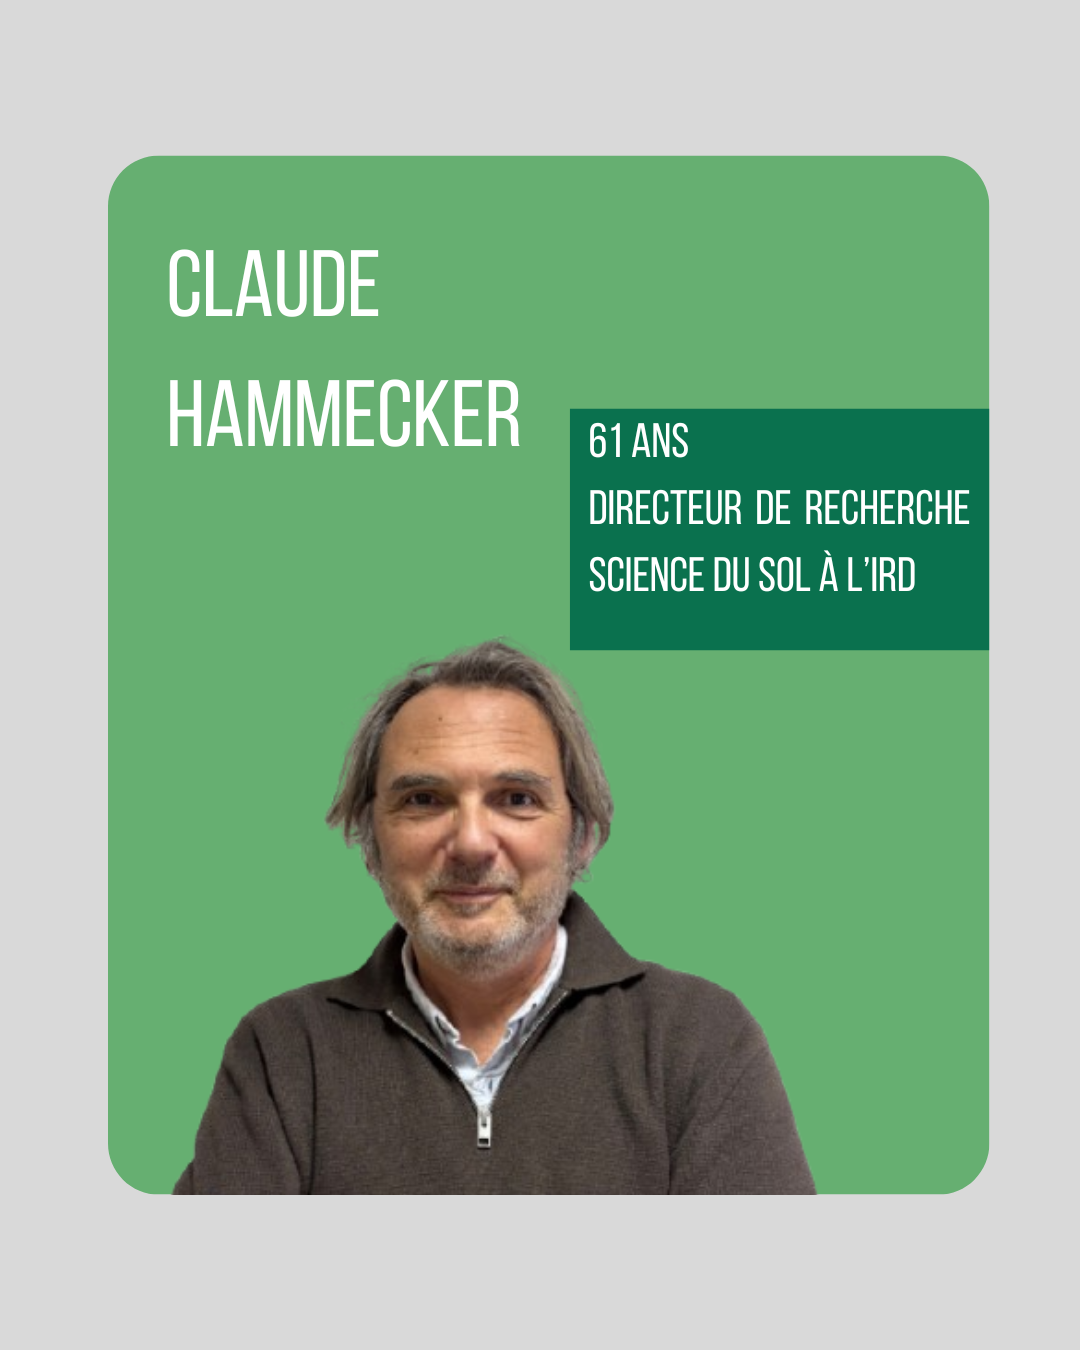
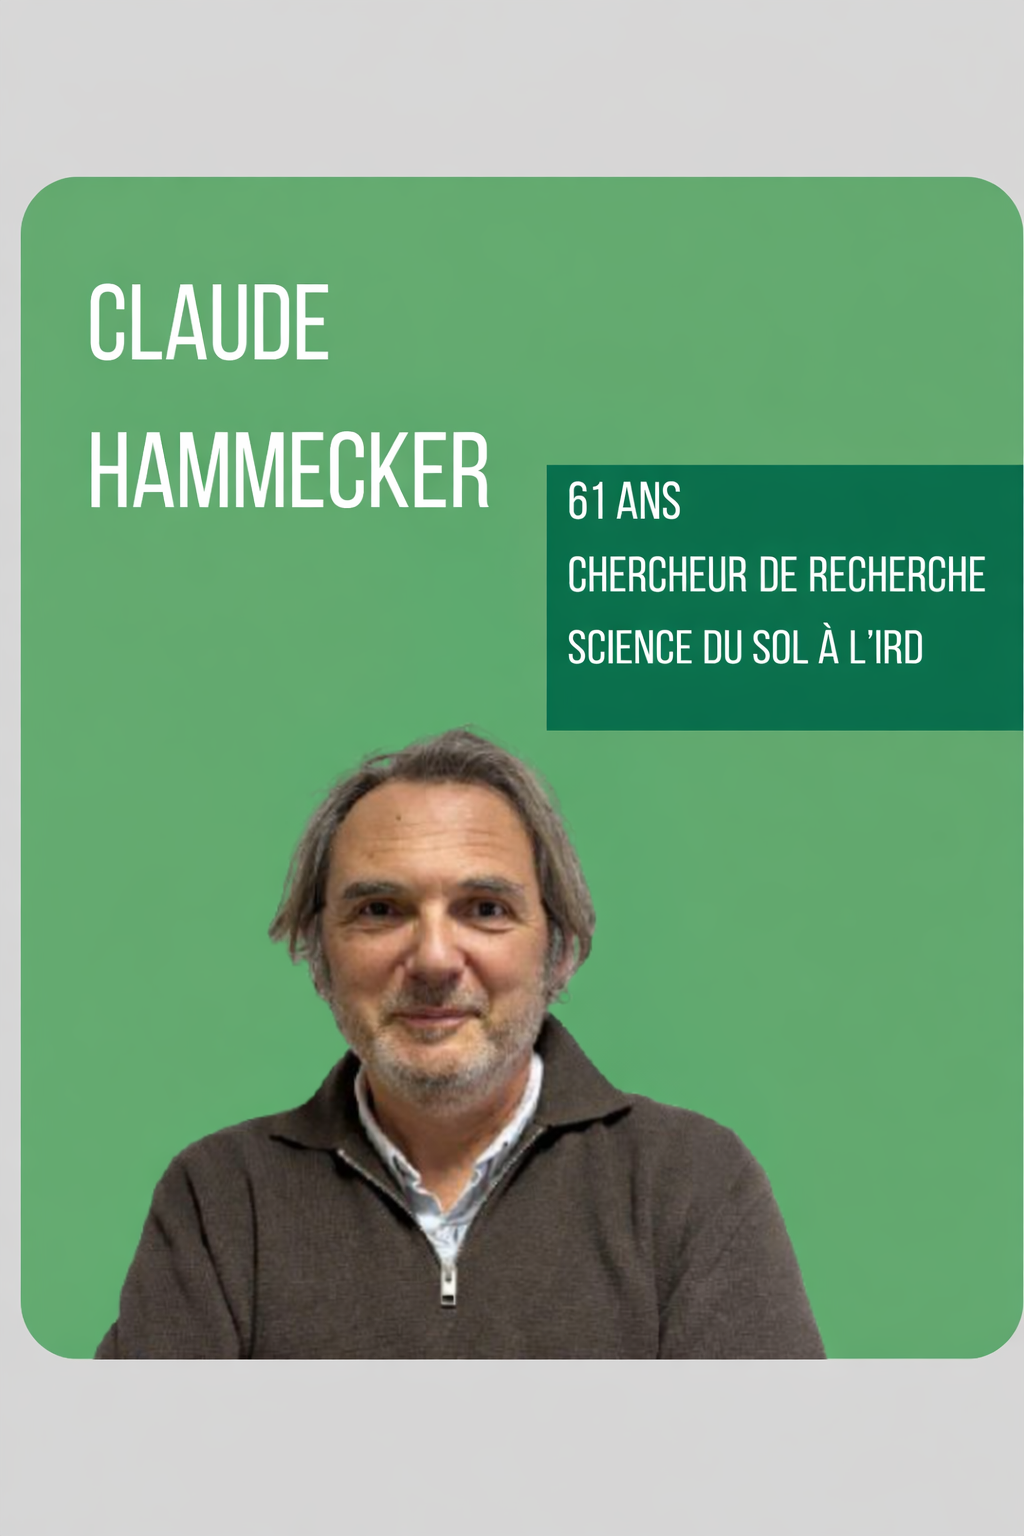
update Claude

Changed region(s): [[0.0, 0.0933, 1.0, 0.9022]]

diff --git a/collectif.md b/collectif.md
@@ -749,15 +749,18 @@ Motivée à m'impliquer pour l'avenir de notre village, je suis convaincue que r
     <img class="bio-photo" src="/assets/img/equipe/21.png" alt="Claude Hammecker">
     <div class="bio-title">
       <h3>Claude Hammecker</h3>
-      <div class="bio-meta">61 ans · Directeur de recherche science du sol (IRD)</div>
+      <div class="bio-meta">61 ans · Chargé de recherche science du sol (IRD)</div>
       <div class="bio-location-text">Quartier du Patus</div>
     </div>
   </div>
-  <div class="bio-text">Directeur de recherche en science du sol à l'IRD (Institut de Recherche pour le Développement), installé à Combaillaux au Quartier du Patus.
-
-Mes travaux portent sur la physique des sols, la gestion de l'eau en milieu semi-aride et les enjeux liés à la dégradation des terres. Cette expertise scientifique me sensibilise aux défis environnementaux auxquels notre commune est confrontée.
-
-Rejoindre Combaillaux Autrement, c'est pour moi mettre ces compétences au service d'un projet collectif qui place la préservation de notre environnement et la participation citoyenne au cœur de la gestion municipale.</div>
+  <div class="bio-text">Chercheur en science du sol à l’IRD (Institut de Recherche pour le Développement) et installé à Combaillaux, au quartier du Patus, depuis 2002, je travaille sur la physique des sols, la gestion de l’eau en milieu semi-aride et les enjeux liés à la dégradation des terres dans les pays du Sud.
+  <p>
+Cette expertise scientifique m’a rendu particulièrement sensible aux défis environnementaux auxquels nos territoires sont confrontés, y compris à l’échelle de notre commune.
+</p>
+<p>
+Rejoindre Combaillaux Autrement, c’est pour moi l’occasion de mettre mes compétences au service d’un projet collectif qui place la préservation de notre environnement, la gestion durable des ressources et la participation citoyenne au cœur de l’action municipale.
+</p>
+</div>
 </div>
 
 </div>
